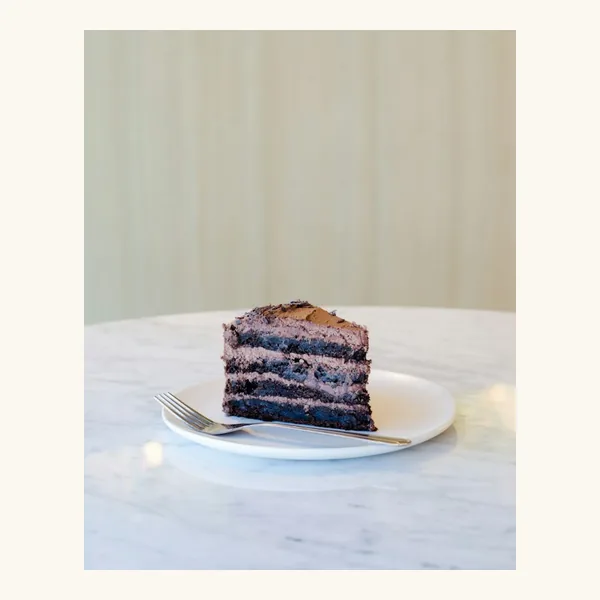
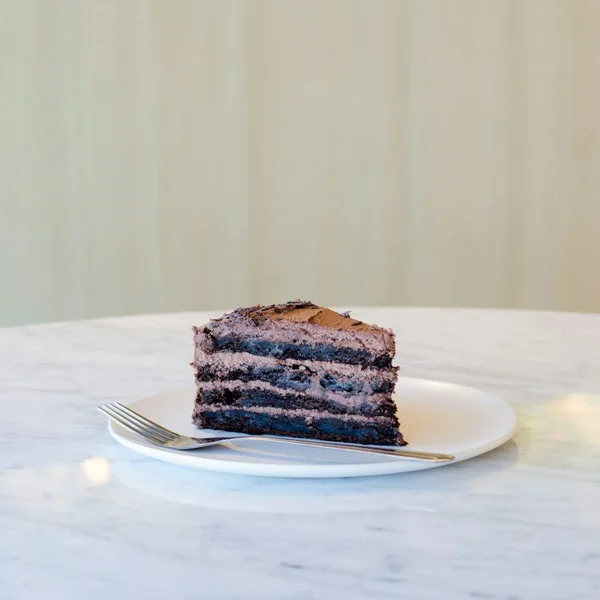
fix(media): resolve production static asset URLs and fix cream keyword matching across entire catalog

diff --git a/frontend/src/lib/commerceMedia.ts b/frontend/src/lib/commerceMedia.ts
@@ -112,11 +112,48 @@ export function getProductImage(
   imageUrl?: string | null
 ): string {
   if (imageUrl && imageUrl.trim().length > 0) {
-    return imageUrl
+    const trimmed = imageUrl.trim()
+    if (trimmed.startsWith('http://') || trimmed.startsWith('https://') || trimmed.startsWith('data:')) {
+      return trimmed
+    }
+    if (trimmed.startsWith('/static/')) {
+      const rawApiUrl = import.meta.env.VITE_API_URL
+      if (rawApiUrl && typeof window !== 'undefined' && !window.location.hostname.includes('localhost')) {
+        try {
+          const origin = new URL(rawApiUrl).origin
+          return `${origin}${trimmed}`
+        } catch {
+          // ignore
+        }
+      }
+      return trimmed
+    }
+    return trimmed
   }
 
   const lower = name.toLowerCase()
   const cat = (category || '').toLowerCase()
+
+  // 0. High-Priority Dairy & Fresh Bakery Delicacies
+  // Must precede personal care & generic matchers to avoid false positive matches on 'cream' / 'oil'
+  if (lower.includes('whipped cream') || lower.includes('whipping cream') || lower.includes('fresh cream') || lower.includes('malai')) {
+    return 'https://images.unsplash.com/photo-1517427294546-5aa121f68e8a?auto=format&fit=crop&w=600&q=80'
+  }
+  if (lower.includes('ice cream') || lower.includes('kulfi') || lower.includes('cassata')) {
+    return 'https://images.unsplash.com/photo-1497034825429-c343d7c6a68f?auto=format&fit=crop&w=600&q=80'
+  }
+  if (lower.includes('pastry') || lower.includes('cream pastry')) {
+    return 'https://images.unsplash.com/photo-1578985545062-69928b1d9587?auto=format&fit=crop&w=600&q=80'
+  }
+  if (lower.includes('muffin') || lower.includes('cream muffin')) {
+    return 'https://images.unsplash.com/photo-1587668178277-295251f900ce?auto=format&fit=crop&w=600&q=80'
+  }
+  if (lower.includes('bourbon') || lower.includes('cream biscuit') || lower.includes('oreo')) {
+    return 'https://images.unsplash.com/photo-1558961363-fa8fdf82db35?auto=format&fit=crop&w=600&q=80'
+  }
+  if (lower.includes('milk') || lower.includes('sudha') || lower.includes('amul milk') || lower.includes('full cream milk')) {
+    return 'https://images.unsplash.com/photo-1563636619-e9143da7973b?auto=format&fit=crop&w=600&q=80'
+  }
 
   // 1. Medicines & Health
   if (lower.includes('dolo') || lower.includes('paracetamol') || lower.includes('fever')) {
@@ -187,7 +224,17 @@ export function getProductImage(
   if (lower.includes('shampoo') || lower.includes('conditioner') || lower.includes('head & shoulders')) {
     return 'https://images.unsplash.com/photo-1535585209827-a15fcdbc4c2d?auto=format&fit=crop&w=600&q=80'
   }
-  if (lower.includes('nivea') || lower.includes('moisturizer') || lower.includes('cream') || lower.includes('lotion')) {
+  if (
+    lower.includes('nivea') ||
+    lower.includes('moisturizer') ||
+    lower.includes('body lotion') ||
+    lower.includes('face cream') ||
+    lower.includes('skin cream') ||
+    lower.includes('cold cream') ||
+    lower.includes('vaseline') ||
+    (lower.includes('lotion') && !lower.includes('calamine')) ||
+    (lower.includes('cream') && (cat.includes('personal') || cat.includes('hygiene') || cat.includes('care') || cat.includes('beauty')))
+  ) {
     return 'https://images.unsplash.com/photo-1522337360788-8b13dee7a37e?auto=format&fit=crop&w=600&q=80'
   }
 

diff --git a/frontend/src/components/ProductImage.tsx b/frontend/src/components/ProductImage.tsx
@@ -55,6 +55,26 @@ function getCategoryFallbackIcon(category?: string | null) {
   return Package
 }
 
+export function resolveMediaUrl(url?: string | null): string | null {
+  if (!url || typeof url !== 'string' || !url.trim()) return null
+  const trimmed = url.trim()
+  if (trimmed.startsWith('http://') || trimmed.startsWith('https://') || trimmed.startsWith('data:')) {
+    return trimmed
+  }
+  if (trimmed.startsWith('/static/')) {
+    const rawApiUrl = import.meta.env.VITE_API_URL
+    if (rawApiUrl && typeof window !== 'undefined' && !window.location.hostname.includes('localhost')) {
+      try {
+        const origin = new URL(rawApiUrl).origin
+        return `${origin}${trimmed}`
+      } catch {
+        // fallback
+      }
+    }
+  }
+  return trimmed
+}
+
 export const ProductImage: React.FC<ProductImageProps> = ({
   src,
   alt,
@@ -68,12 +88,13 @@ export const ProductImage: React.FC<ProductImageProps> = ({
   ...rest
 }) => {
   const [hasError, setHasError] = useState(false)
-  const [isLoading, setIsLoading] = useState(Boolean(src && src.trim().length > 0))
+  const resolvedSrc = resolveMediaUrl(src)
+  const [isLoading, setIsLoading] = useState(Boolean(resolvedSrc && resolvedSrc.length > 0))
 
   const FallbackIcon = getCategoryFallbackIcon(category)
 
   // Empty or invalid src triggers fallback directly
-  const hasValidSource = Boolean(src && src.trim().length > 0 && !hasError)
+  const hasValidSource = Boolean(resolvedSrc && resolvedSrc.length > 0 && !hasError)
 
   return (
     <div
@@ -91,7 +112,7 @@ export const ProductImage: React.FC<ProductImageProps> = ({
 
       {hasValidSource ? (
         <img
-          src={src!}
+          src={resolvedSrc!}
           alt={alt}
           loading={loading}
           decoding={decoding}

diff --git a/frontend/src/pages/ProductDetail.tsx b/frontend/src/pages/ProductDetail.tsx
@@ -113,7 +113,7 @@ export const ProductDetail = () => {
           <div className="md:col-span-6 p-6 sm:p-8 bg-surface-alt border-b md:border-b-0 md:border-r border-border flex flex-col items-center justify-center">
             <div className="relative w-full max-w-[380px] aspect-square rounded-2xl overflow-hidden bg-surface border border-border flex items-center justify-center shadow-soft mx-auto">
               <ProductImage
-                src={product.image_url || resolvedImage}
+                src={resolvedImage}
                 alt={product.name}
                 category={product.category}
                 className="w-full h-full"
